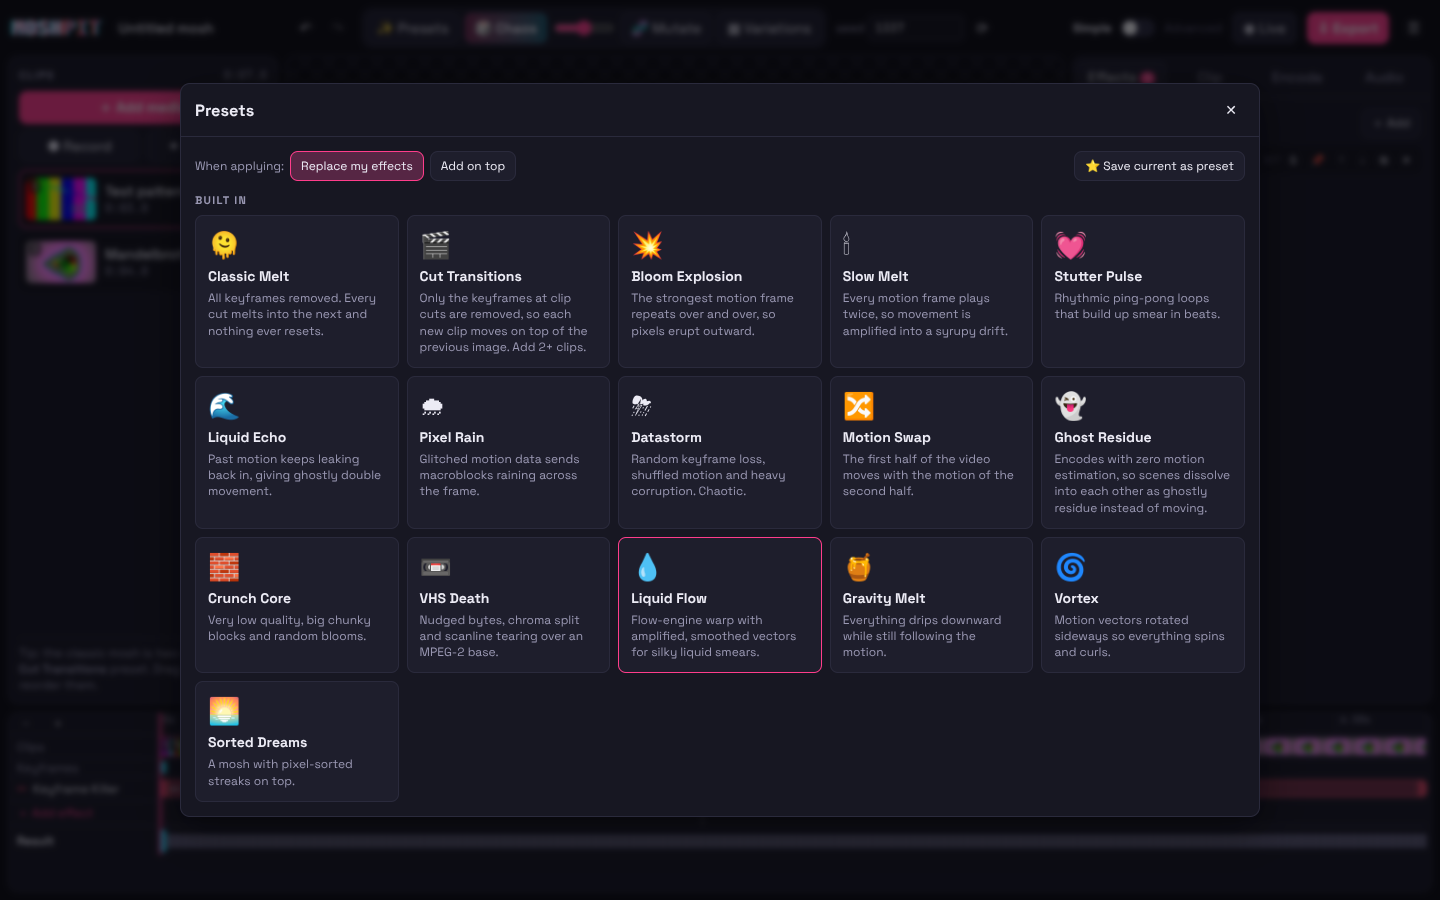
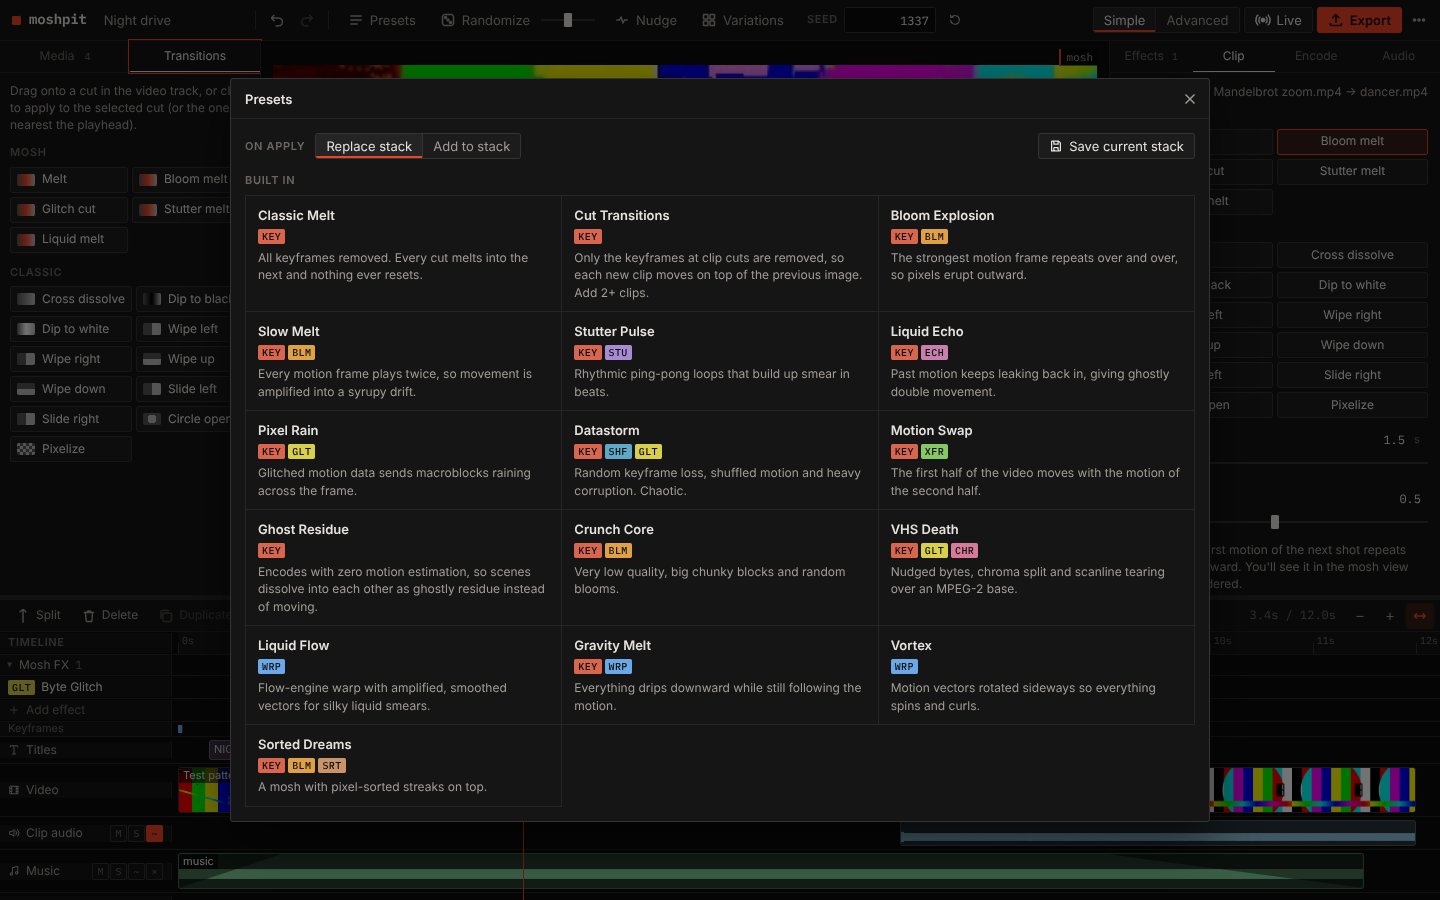
README: new screenshots, demo GIF, phone and export sections
- Fresh editor screenshot, transitions view, presets, export dialog and a
  three-panel phone screenshot, all captured from the current app
- New demo GIF made in the app: a title, a Melt and a Bloom melt
- Sections for using it on a phone and for exporting; recording noted

Claude-Session: https://claude.ai/code/session_01HkArHBtkdcicZvAk5q221p

diff --git a/README.md b/README.md
@@ -7,11 +7,11 @@ Nothing is uploaded. Decoding and encoding happen locally with [ffmpeg.wasm](htt
 **[Open moshpit →](https://furniture3k.github.io/Video-Datamosher/)**&emsp;[![CI](https://github.com/furniture3k/Video-Datamosher/actions/workflows/ci.yml/badge.svg)](https://github.com/furniture3k/Video-Datamosher/actions/workflows/ci.yml)
 
 <p align="center">
-  <img src="docs/demo.gif" alt="A test pattern melting into a Mandelbrot zoom" width="520"><br>
-  <sub>Two generated clips and the Bloom Explosion preset, exported as a GIF from the app.</sub>
+  <img src="docs/demo.gif" alt="A title over a test pattern that melts into a Mandelbrot zoom, then blooms into the next shot" width="420"><br>
+  <sub>Three clips cut together in moshpit with a title, a <b>Melt</b> and a <b>Bloom melt</b> transition, exported as a GIF from the app.</sub>
 </p>
 
-![The editor: media, preview, effect inspector and timeline](docs/studio.png)
+![The editor: media library, preview, inspector, and a timeline with mosh effects, titles, video, clip audio and a music track](docs/studio.png)
 
 ## Getting started
 
@@ -72,7 +72,21 @@ There are 16 presets to start from, and you can save your own.
 - **Titles.** Text with font, colour, position, shadow, box and fades. Titles sit clean on top or **melt with the video**.
 - **Instant preview.** The player shows your cut immediately, straight from the source files, and switches to the rendered mosh when it's ready (or pick **Edit** / **Mosh** yourself). Only the clips you change are re-prepared.
 - **Effects stay on their footage.** Moving, trimming, splitting or deleting clips keeps mosh effects, forced keyframes and Motion Transfer sources on the same shots.
-- Snapping (<kbd>N</kbd>, or hold <kbd>Shift</kbd> while dragging), zoom (<kbd>Ctrl</kbd>+wheel, <kbd>+</kbd> <kbd>−</kbd>), resizable timeline.
+- **Recording.** Record from your camera (front or back) or screen straight onto the timeline.
+- Snapping (<kbd>N</kbd>, or hold <kbd>Shift</kbd> while dragging), zoom (<kbd>Ctrl</kbd>+wheel, <kbd>+</kbd> <kbd>−</kbd>), resizable timeline, right-click menu on clips.
+
+![Transitions: the Transitions tab, a Bloom melt selected on the timeline and its settings in the inspector](docs/transitions.png)
+
+## On your phone
+
+The same app works on phones and tablets. The player stays at the top, and a tab bar switches between the **Timeline**, **Media** and **Inspector** panels.
+
+- **Swipe** the timeline to scroll, **tap** to move the playhead or select a clip.
+- **Press and hold** a clip or effect bar to drag it; **hold and let go** for the clip menu (split, duplicate, reverse, delete).
+- Drag a clip's edges to trim it. Use the **+** next to a media item to add it to the timeline.
+- **Record** uses the phone's camera, with a button to flip between front and back.
+
+![moshpit on a phone: the timeline, the inspector and the media panel](docs/mobile.png)
 
 ## Controls
 
@@ -86,7 +100,13 @@ There are 16 presets to start from, and you can save your own.
 - **Live.** Real-time warp of a camera, screen or video, with recording back into the project.
 - Unlimited undo, autosave (including media) and project files.
 
-![Presets](docs/presets.png)
+![Presets: 16 starting points, each showing the effects it uses](docs/presets.png)
+
+## Exporting
+
+MP4 (H.264) and WebM (VP8) with sound, GIF, a zip of PNG frames, or the raw moshed AVI. The **mosh resolution** (Encode tab) and the **output size** are separate: mosh at 720p for chunky smears and save at 1080p or 4K, or mosh at full resolution. 1080p exports work well in the browser; 1440p and 4K are fine for short videos.
+
+![The export dialog, set to save a 720p mosh at 1080p](docs/export.png)
 
 ## How it works
 
@@ -130,7 +150,7 @@ flowchart LR
 - A desktop version with native FFmpeg (for fast 4K and long videos) is planned: see [DESKTOP.md](DESKTOP.md).
 - A moshed AVI plays differently in every player because each one conceals errors differently. The MP4, WebM and GIF exports contain exactly what the preview shows.
 - WebM export uses VP8 and Vorbis; the VP9 and Opus encoders in ffmpeg.wasm crash.
-- Works in current Chrome, Edge, Firefox and Safari (iOS 15.4 or later).
+- Works in current Chrome, Edge, Firefox and Safari (iOS 15.4 or later), on desktop and on phones. Dragging media from the library needs a mouse; on touch screens use the **+** button.
 
 ## Development
 
